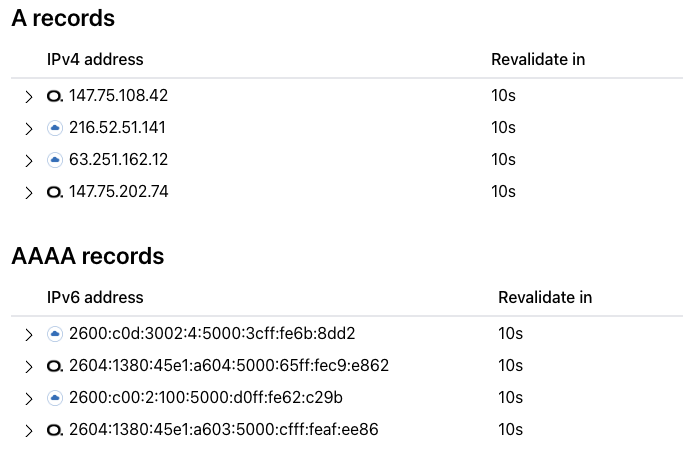
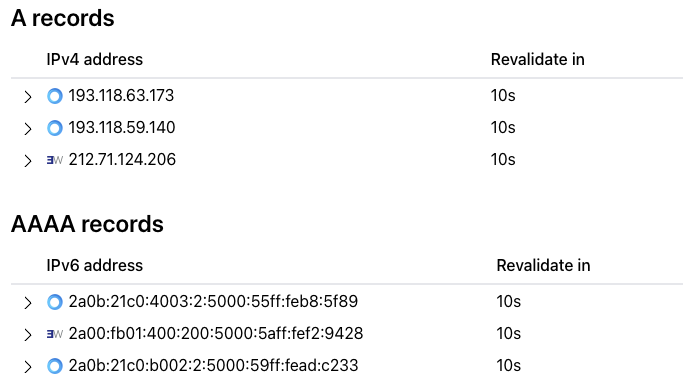
removed mention of "retired" boundary nodes

diff --git a/docs/developer-docs/production/custom-domain/dns-setup.md b/docs/developer-docs/production/custom-domain/dns-setup.md
@@ -64,7 +64,7 @@ DNS provider, but is less resilient and performant.
 
   ### Directly configure the IP addresses
 
-  - #### Step 1: First, you need to look up the IP addresses of the boundary nodes (`icp1.io`). 
+  - #### Step 1: First, you need to look up the IP addresses of the boundary nodes (`icp1.io`).
   To this end, use an online DNS lookup service (e.g., [nslookup.io](https://nslookup.io))
   and take a note of the IPv4- and IPv6-addresses, the `A` and `AAAA` records, respectively.
 
@@ -73,9 +73,9 @@ DNS provider, but is less resilient and performant.
   - #### Step 2: In the **DNS Management** pane in your GoDaddy account, add the following DNS records:
 
     * Create an `A` record for each IPv4-address by setting the name field
-    to "@" and the value field to the IPv4-address (e.g., `147.75.108.42`);
+    to "@" and the value field to the IPv4-address (e.g., `193.118.63.173`);
     * Create an `AAAA` record for each IPv6-address by setting the name field
-    to "@" and the value field to the IPv6-address (e.g., `2600:c0d:3002:4:5000:3cff:fe6b:8dd2`);
+    to "@" and the value field to the IPv6-address (e.g., `2a0b:21c0:b002:2:5000:59ff:fead:c233`);
     * Create a `CNAME` record for which you set the name field to `_acme-challenge` and the value field to `_acme-challenge.ic-domain.online.icp2.io`;
     * Create a `TXT` Record for which you set the name field to `_canister-id` and the value field to the canister ID `y5jqt-wqaaa-aaaam-abcoq-cai`.
 
@@ -105,7 +105,7 @@ for the apex of a domain.
 
   ![DNS Configuration for `ic-domain.online` on Cloudflare](cloudflare-apex.png)
 
-  - #### Step 6: In the next step, Cloudflare lists two nameservers that you should configure GoDaddy to use. 
+  - #### Step 6: In the next step, Cloudflare lists two nameservers that you should configure GoDaddy to use.
   Take note of the two nameservers (e.g., `brianna.ns.cloudflare.com` and `kaiser.ns.cloudflare.com`).
 
   - #### Step 7: In the **DNS Management** pane of GoDaddy, click on the **Change** button in the **Nameservers** section.
